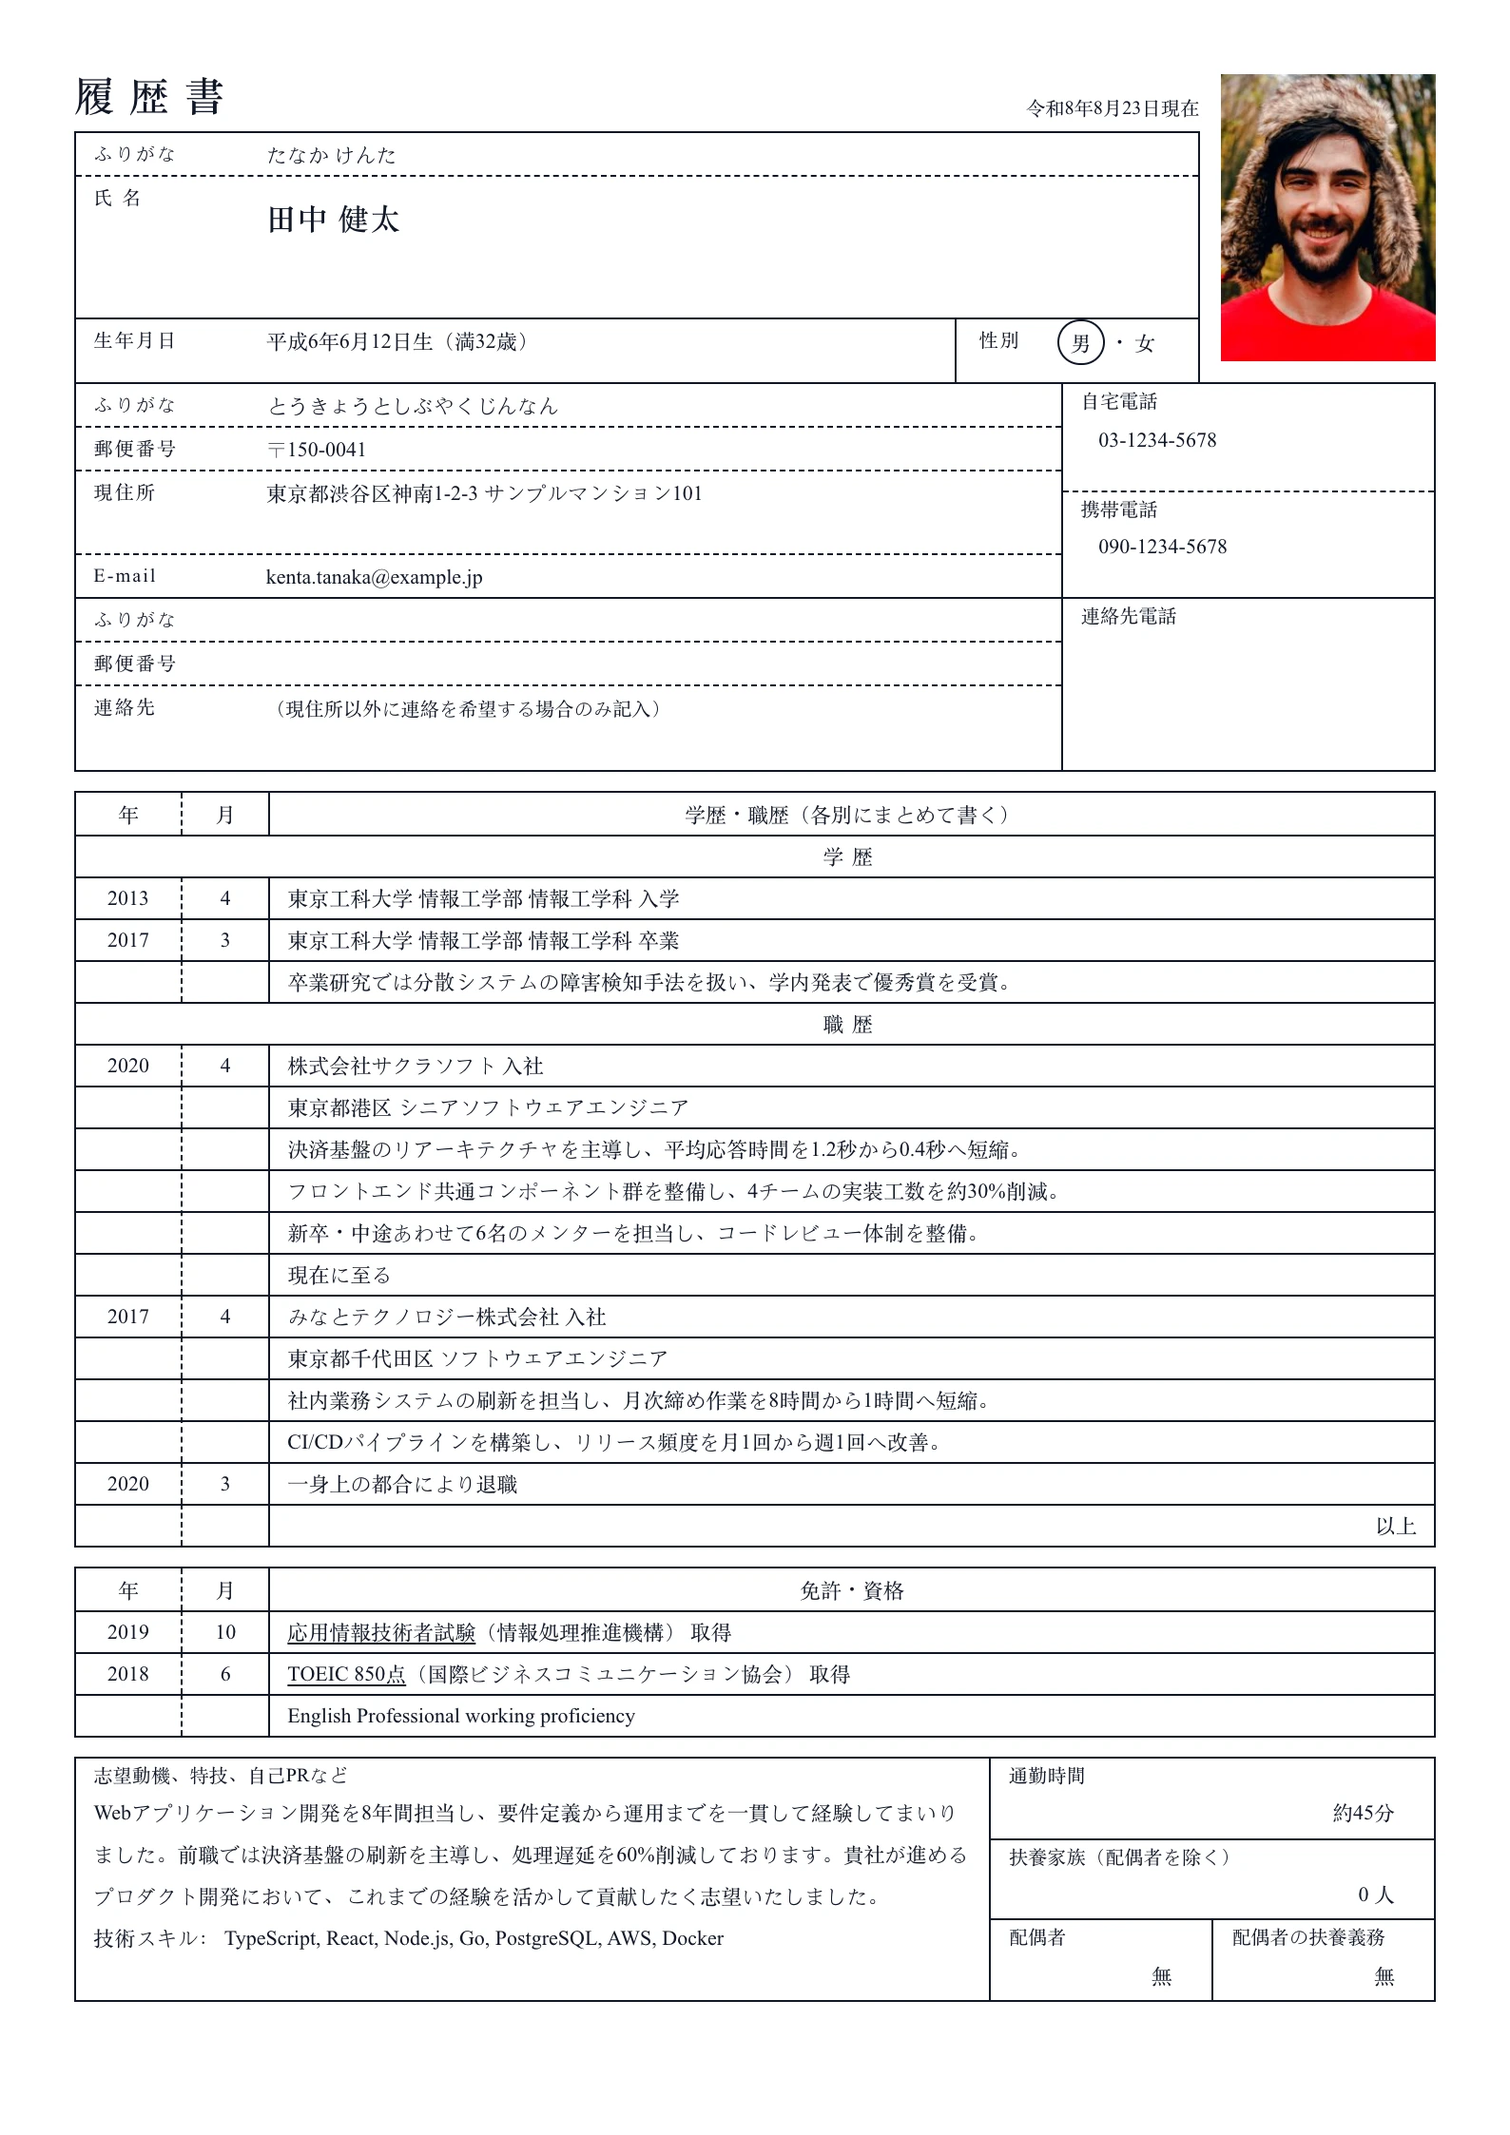
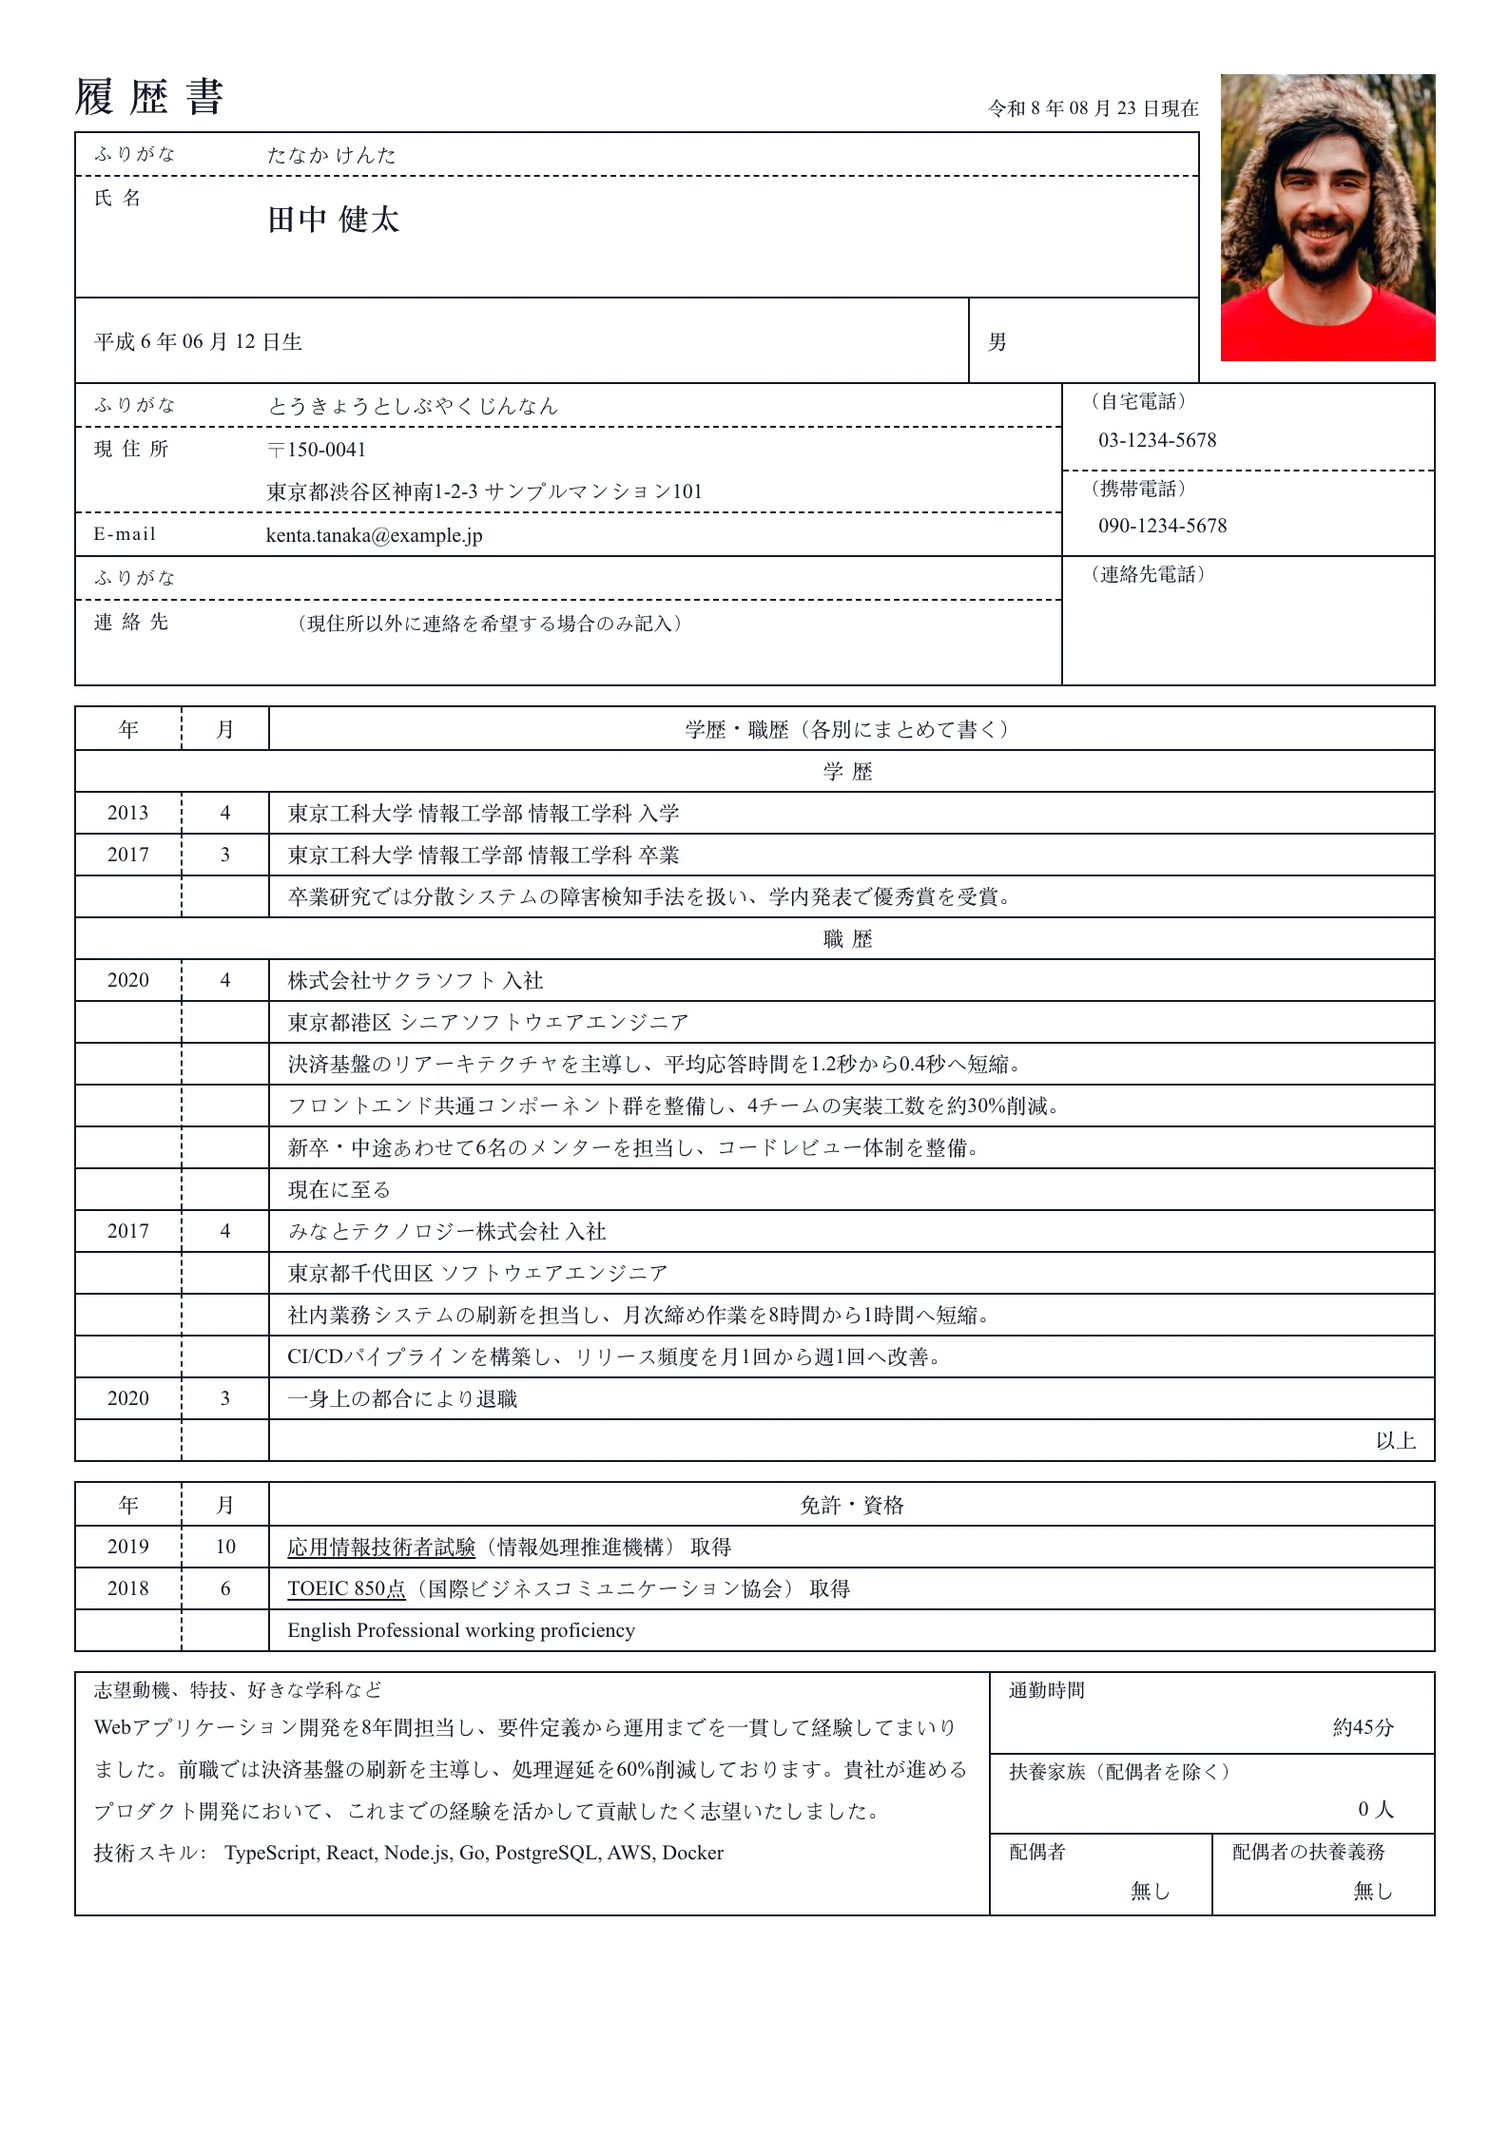
Print the identity block the way the reference sheet exports it
Several inputs collapse into one printed cell, which the form's own export makes
plain: the postal code heads the 現住所 cell with the address on the line under
it, rather than taking a 郵便番号 row of its own. Same for 連絡先.

Dates print spaced and padded — 令和 8 年 08 月 23 日現在, 平成 6 年 06 月 12 日生
— and the birth row drops both its caption and the 満 age, neither of which the
sheet prints. 性別 is its own ruled cell carrying just the answer; the 男・女
ring was a filled-in-by-hand flourish, not what an export shows. The phone
captions are parenthesised as（自宅電話）（携帯電話）（連絡先電話）, and 氏 名 /
現 住 所 / 連 絡 先 take the sheet's spaced labels.

diff --git a/src/features/resume-editor/preview/layouts/rirekisho/header.tsx b/src/features/resume-editor/preview/layouts/rirekisho/header.tsx
@@ -1,4 +1,4 @@
-import { differenceInYears, isValid, parseISO } from "date-fns";
+import { isValid, parseISO } from "date-fns";
 import type { ReactNode } from "react";
 
 import { parseDayMonthYear } from "@/features/resume-editor/domain/month-year";
@@ -8,13 +8,11 @@ import { cn } from "@/lib/utils";
 
 import styles from "./styles.module.css";
 
-// 令和8年8月23日 — the calendar a Japanese form dates itself in. Intl owns the
-// era table, so the next era needs no edit here.
-const JAPANESE_DATE = new Intl.DateTimeFormat("ja-JP-u-ca-japanese", {
+// The sheet spaces and pads its dates: 令和 8 年 08 月 23 日. `Intl` owns the era
+// table, so the next era needs no edit here.
+const JAPANESE_ERA_YEAR = new Intl.DateTimeFormat("ja-JP-u-ca-japanese", {
   era: "long",
   year: "numeric",
-  month: "long",
-  day: "numeric",
 });
 
 /** The date field stores what its picker writes — "12 Jun 1994" — while
@@ -30,18 +28,14 @@ function parseFormDate(value: string | undefined) {
 
 function japaneseDate(value: string | undefined) {
   const parsed = parseFormDate(value);
-  return parsed ? JAPANESE_DATE.format(parsed) : (value ?? "");
-}
+  if (!parsed) return value ?? "";
 
-/** "平成6年6月12日生（満32歳）". The age counts to the document's own as-of date,
- * never to today: a render must give the same page every time it runs. */
-function birthLine(birthDate: string | undefined, asOf: Date) {
-  const born = japaneseDate(birthDate);
-  if (!born) return "";
-  const parsed = parseFormDate(birthDate);
-  if (!parsed || !isValid(asOf)) return `${born}生`;
-  const age = differenceInYears(asOf, parsed);
-  return age >= 0 ? `${born}生（満${age}歳）` : `${born}生`;
+  const parts = JAPANESE_ERA_YEAR.formatToParts(parsed);
+  const era = parts.find((part) => part.type === "era")?.value ?? "";
+  const year = parts.find((part) => part.type === "year")?.value ?? "";
+  const month = String(parsed.getMonth() + 1).padStart(2, "0");
+  const day = String(parsed.getDate()).padStart(2, "0");
+  return `${era} ${year} 年 ${month} 月 ${day} 日`;
 }
 
 const postal = (value: string | undefined) => (value ? `〒${value}` : "");
@@ -83,36 +77,11 @@ function Stacked({
   );
 }
 
-/** 男・女 with the answer ringed, the way the printed form is filled in. Any
- * other wording (a self-description, another language) prints as typed. */
-function Gender({ value }: { value?: string }) {
-  const answer = value?.trim() ?? "";
-  if (answer !== "男" && answer !== "女") return <>{answer}</>;
-  return (
-    <>
-      {["男", "女"].map((option, index) => (
-        <span key={option}>
-          {index > 0 ? <span className="rirekisho-gender-dot">・</span> : null}
-          <span
-            className={cn(
-              "rirekisho-gender-option",
-              option === answer && "is-answer",
-            )}
-          >
-            {option}
-          </span>
-        </span>
-      ))}
-    </>
-  );
-}
-
 export function RirekishoHeader({ context }: LayoutHeaderProps) {
   const { profile, updatedAt } = context.draft;
   // Declared by `layout-section-rules.ts` and filled in the Rirekisho details
   // panel; absent on a draft that has never been on this layout.
   const extras = profile.extras ?? {};
-  const asOf = parseISO(updatedAt);
 
   return (
     <header className={`${styles.header} layout-header`} data-layout="rirekisho">
@@ -136,16 +105,14 @@ export function RirekishoHeader({ context }: LayoutHeaderProps) {
                 <WrapOnSpace text={profile.fullName} />
               </h1>
             </Line>
+            {/* The sheet prints the birth date and the answered 性別 — no age,
+                and no unanswered option. */}
             <div className="rirekisho-line rirekisho-birth-line">
-              <span className="rirekisho-label">生年月日</span>
               <span className="rirekisho-value">
-                {birthLine(extras.birthDate, asOf)}
-              </span>
-              <span className="rirekisho-label rirekisho-label-inner">
-                性別
+                {extras.birthDate ? `${japaneseDate(extras.birthDate)}生` : ""}
               </span>
               <span className="rirekisho-value rirekisho-gender">
-                <Gender value={extras.gender} />
+                {extras.gender}
               </span>
             </div>
           </div>
@@ -185,22 +152,20 @@ export function RirekishoHeader({ context }: LayoutHeaderProps) {
           <Line label="ふりがな" className="rirekisho-line-dashed">
             {extras.addressReading}
           </Line>
-          <Line label="郵便番号" className="rirekisho-line-dashed">
-            {postal(extras.postalCode)}
-          </Line>
           <Line
-            label="現住所"
+            label="現 住 所"
             className="rirekisho-line-dashed rirekisho-address-line"
           >
-            {profile.location}
+            {postal(extras.postalCode)}
+            <span className="rirekisho-address-body">{profile.location}</span>
           </Line>
           <Line label="E-mail">{profile.email}</Line>
         </div>
         <div className="rirekisho-contact-side">
-          <Stacked label="自宅電話" className="rirekisho-line-dashed">
+          <Stacked label="（自宅電話）" className="rirekisho-line-dashed">
             {extras.homePhone}
           </Stacked>
-          <Stacked label="携帯電話">{profile.phone}</Stacked>
+          <Stacked label="（携帯電話）">{profile.phone}</Stacked>
         </div>
       </div>
 
@@ -210,18 +175,18 @@ export function RirekishoHeader({ context }: LayoutHeaderProps) {
           <Line label="ふりがな" className="rirekisho-line-dashed">
             {extras.contactAddressReading}
           </Line>
-          <Line label="郵便番号" className="rirekisho-line-dashed">
+          <Line label="連 絡 先" className="rirekisho-address-line">
             {postal(extras.contactPostalCode)}
-          </Line>
-          <Line label="連絡先" className="rirekisho-address-line">
             <span className="rirekisho-note">
               （現住所以外に連絡を希望する場合のみ記入）
             </span>
-            {extras.contactAddress}
+            <span className="rirekisho-address-body">
+              {extras.contactAddress}
+            </span>
           </Line>
         </div>
         <div className="rirekisho-contact-side">
-          <Stacked label="連絡先電話">{extras.contactPhone}</Stacked>
+          <Stacked label="（連絡先電話）">{extras.contactPhone}</Stacked>
         </div>
       </div>
     </header>

diff --git a/src/features/resume-editor/preview/layouts/rirekisho/styles.module.css b/src/features/resume-editor/preview/layouts/rirekisho/styles.module.css
@@ -132,9 +132,14 @@
   border-bottom: var(--rirekisho-line);
 }
 
-/* The address gets two lines' room; long ones simply take more. */
+/* The postal code heads the address cell and the address sits under it, as the
+   printed sheet stacks them — two rows' room, more when the address is long. */
 .header :global(.rirekisho-address-line) {
   min-height: calc(var(--rirekisho-row) * 2);
+}
+
+.header :global(.rirekisho-address-body) {
+  display: block;
 }
 
 /* The name row absorbs whatever the photo makes the block taller by, so the
@@ -146,7 +151,12 @@
 .header :global(.rirekisho-birth-line) {
   display: flex;
   align-items: stretch;
-  min-height: calc(var(--rirekisho-row) * 1.5);
+  min-height: calc(var(--rirekisho-row) * 2);
+}
+
+.header :global(.rirekisho-birth-line) span {
+  display: flex;
+  align-items: center;
 }
 
 .header :global(.rirekisho-label) {
@@ -170,24 +180,11 @@
   overflow-wrap: anywhere;
 }
 
+/* Its own cell on the right of the birth row, ruled off from it. */
 .header :global(.rirekisho-gender) {
   flex: 0 0 auto;
-  min-width: 22mm;
-}
-
-/* The answer is ringed rather than bolded: that is how the paper form is
-   filled in, and bold would compete with the name. */
-.header :global(.rirekisho-gender-option.is-answer) {
-  display: inline-block;
-  border: var(--rirekisho-line);
-  border-radius: 999px;
-  padding: 0 1.6mm;
-  print-color-adjust: exact;
-  -webkit-print-color-adjust: exact;
-}
-
-.header :global(.rirekisho-gender-dot) {
-  padding: 0 0.6mm;
+  width: 32mm;
+  border-left: var(--rirekisho-line);
 }
 
 .header :global(.name) {
@@ -213,7 +210,7 @@
 
 .header :global(.rirekisho-note) {
   font-size: var(--resume-meta);
-  padding-right: 2mm;
+  padding-left: 3mm;
 }
 
 /* One per line: a URL beside an address is unreadable at this size. */
@@ -425,7 +422,8 @@
   flex: 1;
 }
 
-.layout :global(.rirekisho-band-pair .rirekisho-small-box + .rirekisho-small-box) {
+.layout
+  :global(.rirekisho-band-pair .rirekisho-small-box + .rirekisho-small-box) {
   border-left: var(--rirekisho-line);
 }
 

diff --git a/src/features/resume-editor/preview/layouts/rirekisho/README.md b/src/features/resume-editor/preview/layouts/rirekisho/README.md
@@ -15,10 +15,10 @@ decoration — they are the format, so nothing here has gaps between sections.
 
 - **Page shape** — one column, 12mm margins. The boxes reach almost to the paper edge: the form, not the whitespace, frames the page.
 - **The line grid** — the whole point. `--rirekisho-row` is the height of a printed line; every cell sets `line-height` to exactly that and takes no vertical padding, and each row paints a rule at the **top** of every line it occupies. A cell that wraps to three lines is therefore three rows tall with a rule under each — row heights stay equal down the page, like a spreadsheet, and long text never makes a half-height box. Top and not bottom because two rows share that edge: one rule is drawn there, never two stacked or one clipped. The pitch is `2 × --resume-body` so it is always a whole number of pixels; at a fractional pitch the browser drops rules.
-- **Title row** — 履歴書 at `0.85 × h1` with `0.35em` tracking, and the draft's `updatedAt` at the right *of the table column*, beside the photo rather than above it: the photo hangs from the top edge of the sheet. Rendered 令和8年8月23日現在 — `Intl` with the `ja-JP-u-ca-japanese` calendar owns the era table, so the next era needs no edit.
-- **Identity box** — ふりがな over 氏名 (two rows tall), then 生年月日 and 性別 sharing a row. 生年月日 reads 平成6年6月12日生（満32歳）; the age counts to the document's own as-of date, never to `new Date()`, so a render is reproducible. 性別 prints 男・女 with the answer **ringed**, the way the paper form is filled in.
+- **Title row** — 履歴書 at `0.85 × h1` with `0.35em` tracking, and the draft's `updatedAt` at the right *of the table column*, beside the photo rather than above it: the photo hangs from the top edge of the sheet. Dates print spaced and padded the way the sheet does — 令和 8 年 08 月 23 日現在 — with `Intl`'s `ja-JP-u-ca-japanese` calendar supplying the era, so the next era needs no edit.
+- **Identity box** — ふりがな over 氏 名 (two rows tall), then the birth row: 平成 6 年 06 月 12 日生 on the left and the answered 性別 in a ruled-off cell on the right. Neither carries a caption and there is no 満 age, because the printed sheet prints neither.
 - **Photo box** — 30mm at `var(--resume-photo-aspect, 3 / 4)` = 30×40mm, hanging from the top of the sheet with the same air below it as beside it. The dashes are the **placeholder**: an empty box is dashed and carries the printed sheet's instructions (写真をはる位置 …), a filled one is just the photo, unframed.
-- **Contact boxes** — 現住所 runs ふりがな / 郵便番号 / 現住所 / E-mail down the left with 自宅電話 and 携帯電話 down the right; 連絡先 repeats the shape for the address post should go to instead, when that differs. Profile links are **not** printed: the form has no row for a URL, and inventing one is not the format.
+- **Contact boxes** — ふりがな / 現 住 所 / E-mail down the left, （自宅電話）and（携帯電話）down the right; 連絡先 repeats the shape for the address post should go to instead, when that differs. The postal code is **not** a row of its own: it heads the address cell as 〒150-0041 with the address on the line under it, which is how the sheet prints two inputs into one box. Profile links are **not** printed: the form has no row for a URL, and inventing one is not the format.
 - **学歴・職歴 table** — one table captioned 年 / 月 / 学歴・職歴（各別にまとめて書く）, with 学歴 and 職歴 as centred label rows over their runs. Work rows read `会社名 入社`, the role, the description, then `一身上の都合により退職` or a dateless `現在に至る`. Education rows read `入学` / `卒業`. Closed by a right-aligned 以上.
 - **年 / 月** — split from the stored `MMM yyyy` via `parseMonthYear`; a date the picker never produced (`current`, free text) leaves both cells blank rather than guessing. The rule between 年 and 月 is dashed, the one before the entry solid — the form's own hierarchy.
 - **免許・資格 table** — certifications and languages share it; the caption row names it, so their own headings are hidden.
@@ -37,7 +37,7 @@ only layout that uses any of them:
   郵便番号 (×2), 自宅電話, 連絡先 and 連絡先電話, 通勤時間, 扶養家族数, 配偶者,
   配偶者の扶養義務, and 本人希望記入欄. The address, e-mail and mobile number
   come from the Profile — nothing is duplicated here. 性別, 配偶者 and
-  配偶者の扶養義務 are selects (男/女, 有/無); the rest are text, one date and
+  配偶者の扶養義務 are selects (男/女, 有り/無し); the rest are text, one date and
   one multi-line box. All read from the free `profile.extras` map and are edited
   in the pinned **Rirekisho details** row, which appears only while this layout
   is selected. Values survive a switch away. The date field uses the same picker
